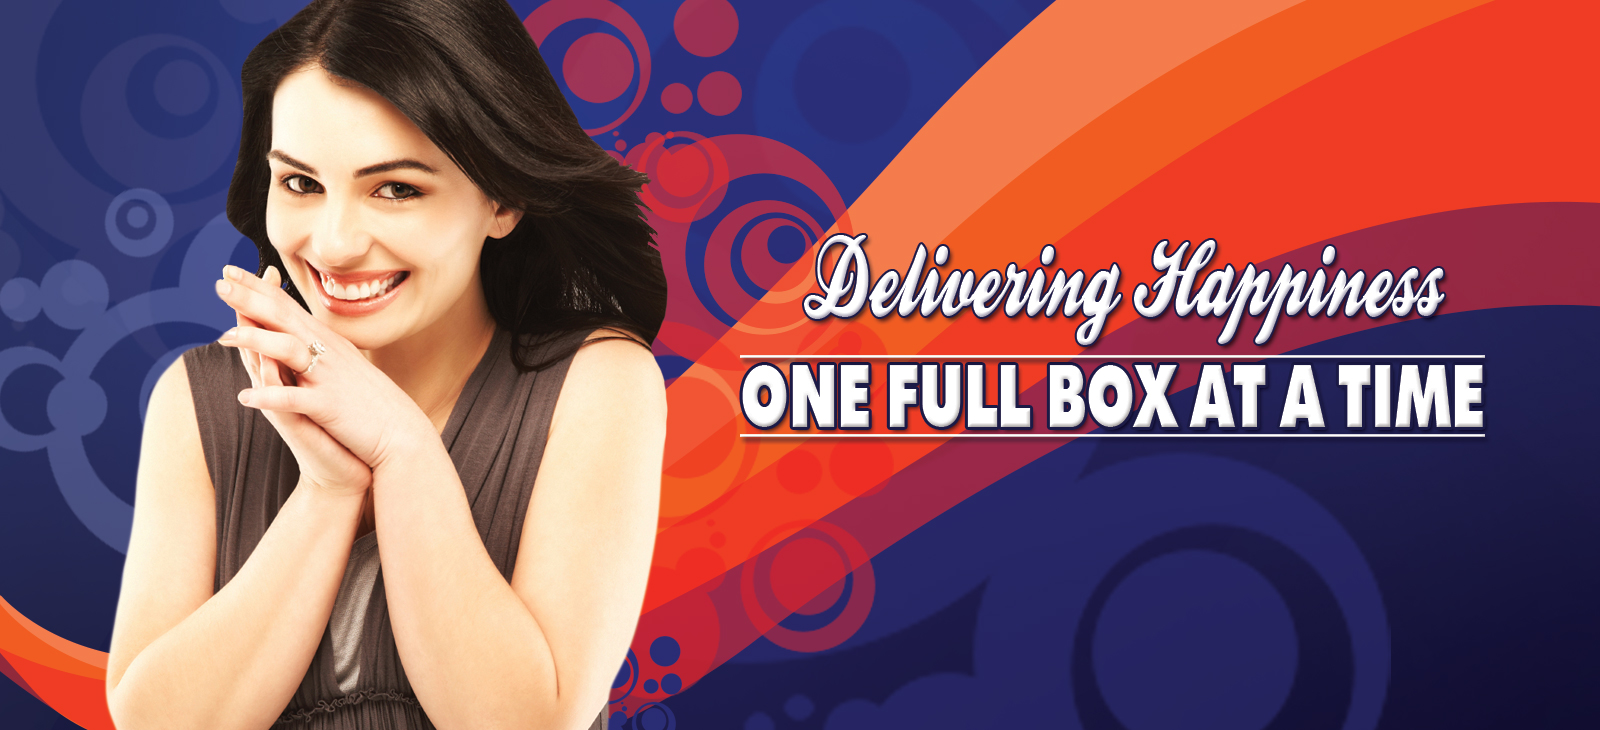
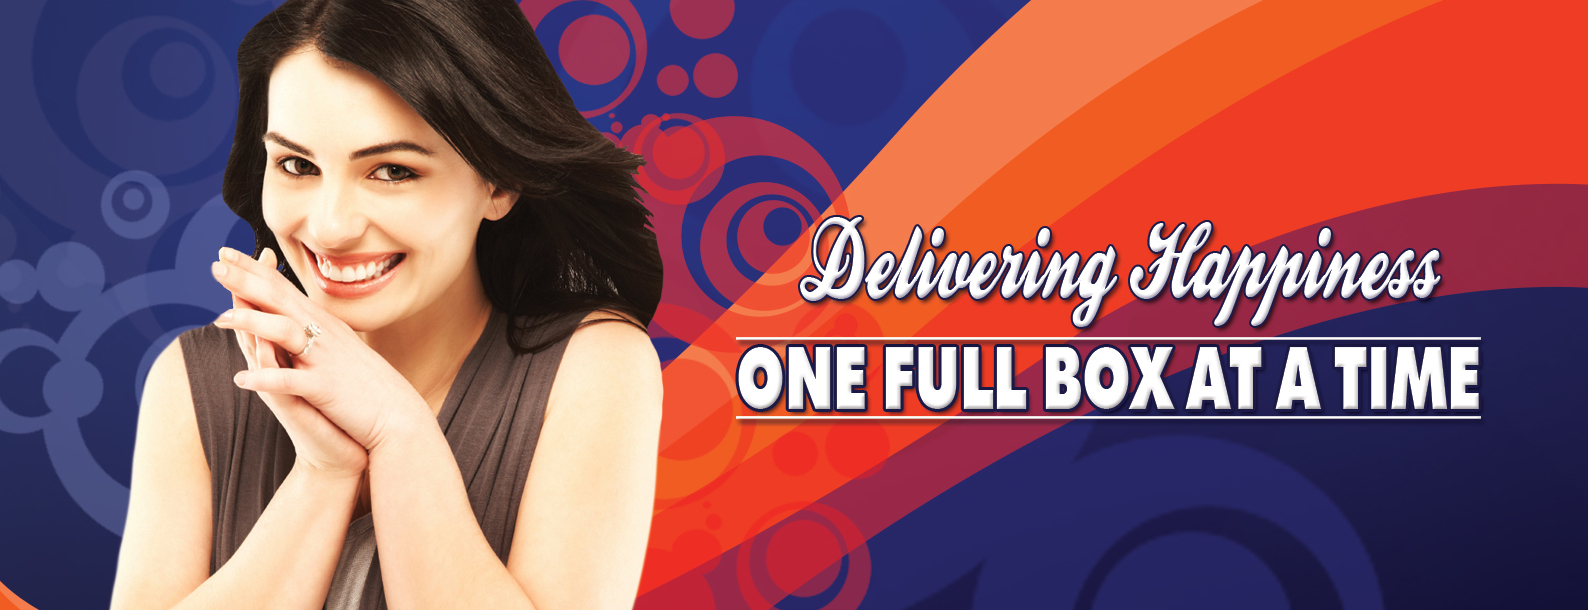
fixed image and centering

diff --git a/src/main/webapp/resources/bootstrap/css/style.css b/src/main/webapp/resources/bootstrap/css/style.css
@@ -108,6 +108,12 @@ height:4800px;
 background:url('/resource/bootstrap/images/zapposSMOrder.png') no-repeat center center;
 }
 
+.heroImage {
+width:100%;
+height:610px;
+padding: 0;
+}
+
 .footer {
 width:100%;
 height:150px;
